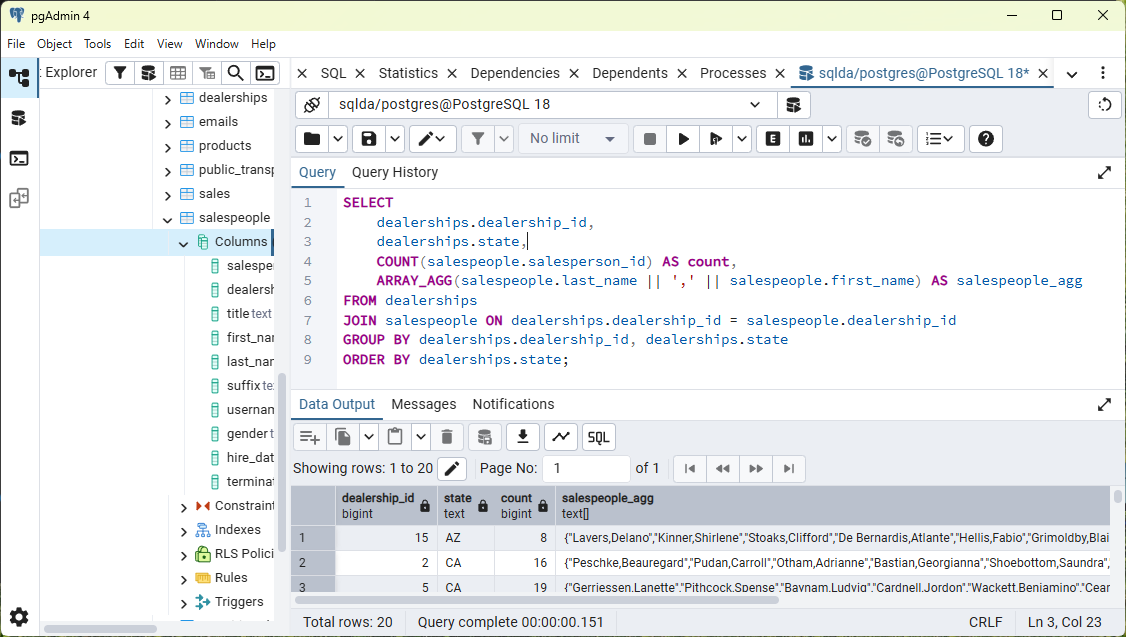
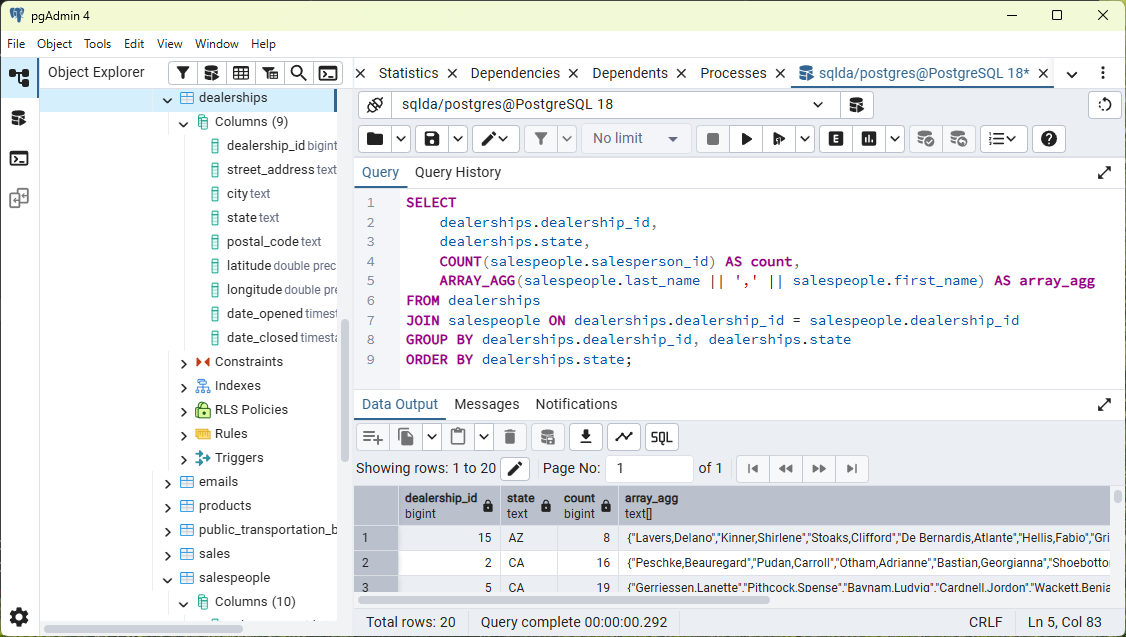
update exercise05 file

diff --git a/exercises/exercise05.md b/exercises/exercise05.md
@@ -235,7 +235,7 @@ SELECT
     dealerships.dealership_id,
     dealerships.state,
     COUNT(salespeople.salesperson_id) AS count,
-    ARRAY_AGG(salespeople.last_name || ',' || salespeople.first_name) AS salespeople_agg
+    ARRAY_AGG(salespeople.last_name || ',' || salespeople.first_name) AS array_agg
 FROM dealerships
 JOIN salespeople ON dealerships.dealership_id = salespeople.dealership_id
 GROUP BY dealerships.dealership_id, dealerships.state
@@ -255,7 +255,8 @@ Using the `sqlda` database, write the SQL needed to convert the **customers** ta
 ### SQL
 
 ```sql
--- Your SQL here
+SELECT row_to_json(customers)
+FROM customers;
 ```
 
 ### Screenshot
@@ -281,7 +282,19 @@ Reference image:
 ### SQL
 
 ```sql
--- Your SQL here
+SELECT row_to_json(t)
+FROM (
+    SELECT
+        dealerships.dealership_id,
+        dealerships.state,
+        COUNT(salespeople.salesperson_id) AS count,
+        ARRAY_AGG(salespeople.last_name || ',' || salespeople.first_name) AS array_agg
+    FROM dealerships
+    JOIN salespeople ON dealerships.dealership_id = salespeople.dealership_id
+    GROUP BY dealerships.dealership_id, dealerships.state
+    ORDER BY dealerships.state
+) t;
+
 ```
 
 ### Screenshot
